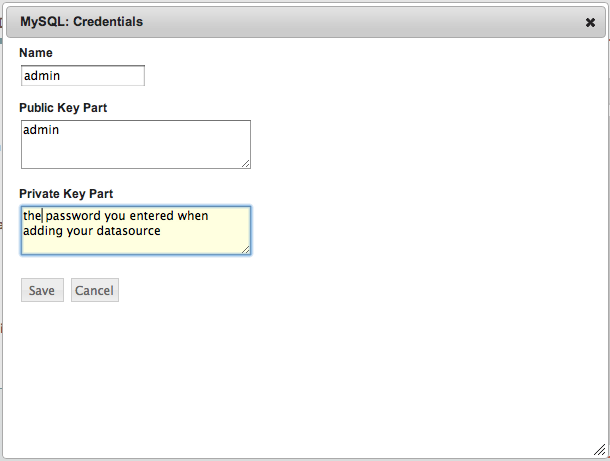
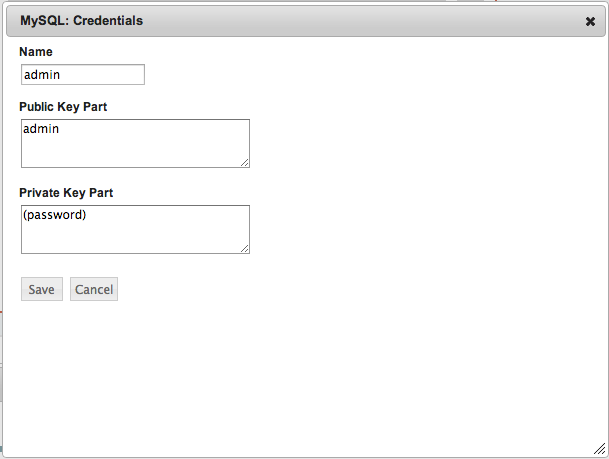
Edited and fixed error of wordpress tutorial for easy understaing.

diff --git a/tutorials/wordpressdemo/add_credentials.rst b/tutorials/wordpressdemo/add_credentials.rst
@@ -1,16 +1,16 @@
 Credentials
------
+-----------
 
 The credentials option in the actions menu is to allow credentials or other private information to be passed directly to the running instance.
 
 .. figure:: ./images/credentials0.jpg
-   :height: 289px
+   :height: 290px
    :width: 1300 px
    :scale: 55 %
    :alt: MySQL, Credentials
    :align: center
 
-   MySQL: Credentials
+Click '+ Add Credentials'.
 
 .. figure:: ./images/credentials1.png
    :height: 465px
@@ -19,7 +19,7 @@ The credentials option in the actions menu is to allow credentials or other priv
    :alt: MySQL: Credentials
    :align: center
 
-   MySQL: Credentials
+You need to fill MySQL credential configuration properly to initialize MySQL database.
 
 .. figure:: ./images/credentials2.png
    :height: 461 px
@@ -28,7 +28,24 @@ The credentials option in the actions menu is to allow credentials or other priv
    :alt: MySQL: Credentials
    :align: center
 
-   MySQL: Credentials
+.. list-table::
+   :widths: 30 22 90
+   :header-rows: 1
+
+   * - Field
+     - Value
+     - Description
+   * - Name
+     - admin
+     - You must use 'admin'. This name is used in enstratus service configuration scripts. This field won't be configurable in next update.
+   * - Public Key Part
+     - (username)
+     - Any username you want. This field name must sound strange but this is the username for initializing MySQL database.
+   * - Private Key Part
+     - (password)
+     - Any password you want.
+|
+After configuring credential, you will see the credential on the list.
 
 .. figure:: ./images/credentials3.png
    :height: 460 px
@@ -36,6 +53,3 @@ The credentials option in the actions menu is to allow credentials or other priv
    :scale: 75 %
    :alt: MySQL: Credentials
    :align: center
-
-   MySQL: Credentials
-

diff --git a/tutorials/wordpressdemo/configure_datasource.rst b/tutorials/wordpressdemo/configure_datasource.rst
@@ -15,7 +15,7 @@ once the mysql service is configured. On the MySQL service, choose actions > Dat
    :alt: Service, Data Source
    :align: center
 
-   Service, Data Source
+Click '+ Add Data Source'.
 
 .. figure:: ./images/addDataSource1.png
    :height: 300px
@@ -24,7 +24,7 @@ once the mysql service is configured. On the MySQL service, choose actions > Dat
    :alt: Service, Data Source
    :align: center
 
-   Service, Data Source
+You need to fill information in Data Sources configuration dialogue window.
 
 .. figure:: ./images/addDataSource2.png
    :height: 700px
@@ -32,8 +32,21 @@ once the mysql service is configured. On the MySQL service, choose actions > Dat
    :scale: 50 %
    :alt: Service, Data Source
    :align: center
+.. list-table::
+   :widths: 35 22 95
+   :header-rows: 1
 
-   Service, Data Source
+   * - Field
+     - Value
+     - Description
+   * - Service User
+     - (username)
+     - This will be used by wordpress service to connect to its MySQL database. It doesn't need to be the same username as configured in credential.
+   * - Service Password
+     - (password)
+     - Any password you want.
+|
+If configured properly, you will see the data source from the list.
 
 .. figure:: ./images/addDataSource3.png
    :height: 300px
@@ -41,5 +54,3 @@ once the mysql service is configured. On the MySQL service, choose actions > Dat
    :scale: 50 %
    :alt: Service, Data Source
    :align: center
-
-   Service, Data Source
